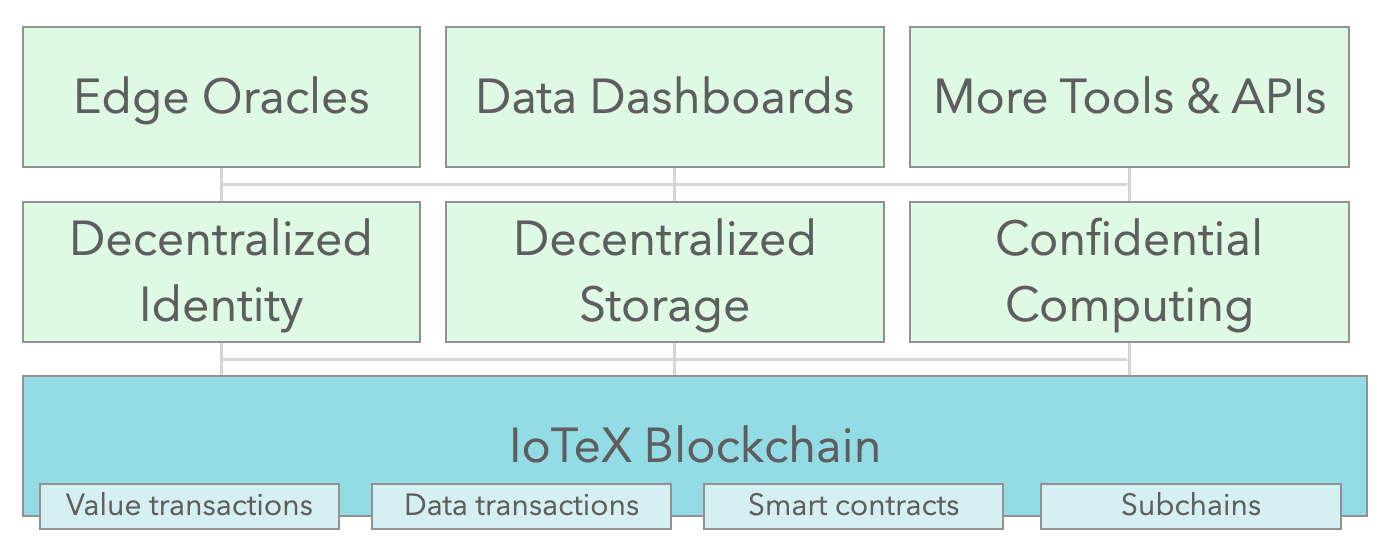
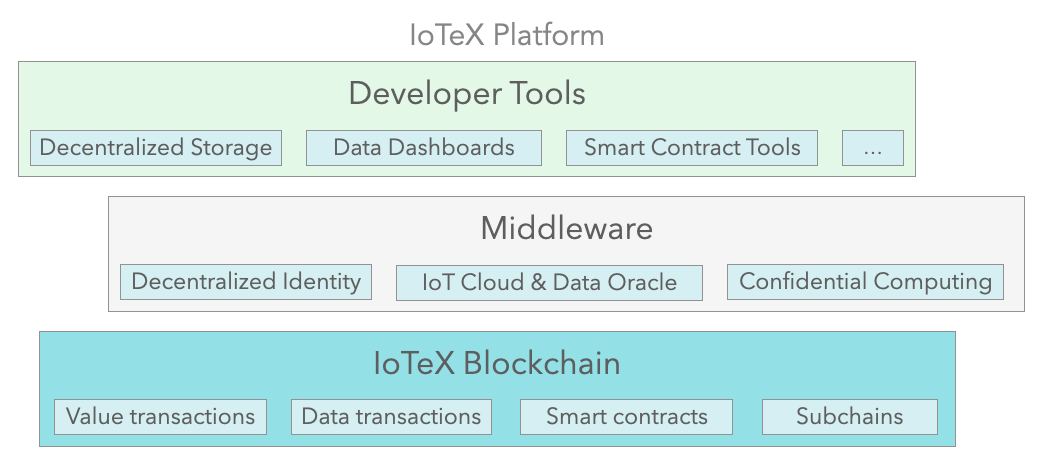
Added some more docs

diff --git a/docs/.vuepress/config.js b/docs/.vuepress/config.js
@@ -35,8 +35,8 @@ module.exports = {
         collapsable: false,
         nav: [
           { text: "Home", link: "/" },
-          { text: "Introduction", link: "/introduction/whatisiotex" },
-          { text: "Develop", link: "/developer/" },
+          { text: "Developers", link: "/developer/" },
+          { text: "Core concepts", link: "/introduction/whatisiotex" },
           { text: "Get Involved", link: "/contribute/" }
         ],
         sidebar: {
@@ -53,9 +53,9 @@ module.exports = {
                   path: "/introduction/platform-overview",
                   children: [
                     "introduction/platform-overview",
-                    "introduction/blockchain",
-                    "introduction/middleware",
-                    "introduction/tools-and-api"
+                    "introduction/blockchain-layer",
+                    "introduction/middleware-layer",
+                    "introduction/tools-layer"
                   ]
                 },
                 {
@@ -65,7 +65,7 @@ module.exports = {
                   children: [
                     "introduction/account-concept",
                     "introduction/node-concept",
-                    "introduction/transaction-concept",
+                    "introduction/action-concept",
                     "introduction/fee-concept"
                   ]
                 }

diff --git a/docs/introduction/account-concept.md b/docs/introduction/account-concept.md
@@ -1,17 +1,17 @@
 ---
 id: guides
-title: IoTeX Accounts
+title: Accounts
 ---
 
-### IoTeX Accounts
+### Accounts
 
-An Account represents any entity participanting in the IoTeX network, that can be a user, a device, an enterprise, or even a piece of software that lives on the blockchain itself (a so called _smart contract_). Each IoTeX account always has a "public key" associated to it, that is represented by a 41 characters string starting by `io1...`, and is referred to as the **Address** of the account.
+An Account represents any entity participanting in the IoTeX network, that can be a user, a device, an enterprise, or even a piece of software that lives on the blockchain itself (a so called _smart contract_). Each IoTeX account always has a "public key" associated with it, that can be represented by a 41 characters string starting by `io1...`, and is referred to as the **Address** of the account.
 
 A typical address in the IoTeX blockchain looks like this:
 
 `io1juvx5g063eu4ts832nukp4vgcwk2gnc5cu9ayd`
 
-Similarly to other blockchain platform, in IoTeX we have two type of accounts: **owned** accounts that have a known **private key** associated to them, and **smart contract accounts** that do not have a known private key associated with them.
+Similarly to other smart contract platforms, in IoTeX we have two type of accounts: **owned** accounts that have a known **private key** associated to them, and **smart contract** accounts that do not have a known private key associated with them.
 
 ![IoTeX Platform](/img/introduction/accounts.png)
 
@@ -23,4 +23,13 @@ While the address of an account can be generated from the private key, it's not 
 
 ### Smart contract Accounts
 
-As anticipated, smart contract accounts do not have a private key associated to it, therefore they cannot initiate transactions: a contract address can only be the destination of transactions. On the other side, a smart contract address has some **executable code** associated to it, that gets executed each time a transaction is sent to its account address.
+As anticipated, smart contract accounts do not have a private key associated to it, therefore they cannot initiate transactions: a contract address can only be the destination of transactions. On the other hand, a smart contract address has some **executable code** associated to it, that gets **executed** each time a transaction is sent to its address.
+
+### Address generation
+
+A IoTeX address can be generated using the following steps:
+
+1. Generating a random private key and the corresponding public key using secp256k1's elliptic curve;
+2. Apply keccak256 hash function to the public key, exluding the first byte ($hash := keccak256(pk[1:])$;
+3. Take the late 20 bytes as the payload (payload := hash[12:]), which is the byte representation of the address;
+4. Apply [bech32](https://github.com/bitcoin/bips/blob/master/bip-0173.mediawiki) encoding on the payload and adding io prefix.

diff --git a/docs/introduction/node-concept.md b/docs/introduction/node-concept.md
@@ -1,6 +1,22 @@
 ---
 id: guides
-title: Blockchain Nodes
+title: Nodes
 ---
 
 ### Blockchain Nodes
+
+Similarly to other blockchains, IoTeX is a peer-to-peer network of **nodes** that maintain a global consensus over the status of a single ledger stored among the nodes of the blockchain in a distributed fashion. IoTeX is also a _digital democracy_, where anyone can configure a node and propose himeself as a **delegate** node. Token-holders can then **stake** their IOTX tokens and **vote** for Delegates to maintain/grow the network. Every 1 hour (aka one _IoTeX Epoch_), the ranking of all delegate candidates is evaluated by the blockchain, and the top 36 voted Delegates become **Consensus Delegates**. Consensus Delegates are eligible to produce blocks on behalf of the entire IoTeX Network for that epoch and to evaluate the new ranking of consensus delegates for the next epoch. For their services, Delegates are **rewarded** by the blockchain in IOTX tokens, which they may share with their voters.
+
+![IoTeX Platform](/img/introduction/nodes.png)
+
+In IoTeX there are three types of nodes:
+
+- **Gateway**: these are nodes that keep a full copy of the blockchain, so that they can securely verify any new incoming transaction against the current status of the ledger. They can serve as the trusted gateway for communication among other users and devices in the IoTeX network, and with the blockchain itself.
+
+- **Delegate Candidates**: these are very similar to a full node, except that the owner of the node configured it such that the node is recognised as a "Delegate Candidate" by other network participants, hence it's entitled to receive **votes** by IOTX token holders. Learn more about IoTeX Delegates [in this thread](https://community.iotex.io/t/official-iotex-delegates-thread/1263), and view the full list of Delegates on the [IoTeX voting website](member.iotex.io).
+
+* **Consensus Delegates** these are themselves delegate nodes, just they have received enough votes from the network to rank in the top 36 of all delegate candidates, hence they are entitled to be the **maintainers** of the blockchain by verifying transactions and minting new blocks. View the current list of consensus delegates on the [IoTeX voting website](member.iotex.io).
+
+![IoTeX Platform](/img/introduction/nodes2.png)
+
+While Delegate nodes can also be configured to act as gateways, this is usually not the case: the main purpose of a delegate node is eventually to become a consensus delegate and to maintain the blockchain, hence the node is usually backed by high-performance hardware, fast network connectivity, and are highly protected against external attacks.

diff --git a/docs/introduction/action-concept.md b/docs/introduction/action-concept.md
@@ -1,0 +1,34 @@
+---
+id: guides
+title: Actions
+---
+
+### IoTeX Actions
+
+Any blockchain is bootstrap from an initial (_genesis_) state, which is then changed over time through transactions, or **Actions** as they are called in IoTeX. An action is fundamentally a _packet of data_, signed by a blockchain account, that instructs the blockchain to make some type of change to the distributed ledger. The action can be sent to any blockchain node acting as a gateway, that in turn broadcasts it to the entire network of nodes for verification and, eventually it get applied and stored forever in the Ledger.
+
+In IoTeX there are different types of Actions, depending on the type of operation that is required to perform:
+
+#### Transfer Action
+
+A transfer is an action initiated by an account, intended to _transfer_ a certain amount of IOTX tokens owned by that account (_sender_) into another account (_recipient_).
+
+#### Execution Action
+
+An execution is an action initiated by an account, intended to run the code associated with a smart contract account
+
+#### Governance Action
+
+Governance actions are low level actions between an account and the blockchain itself, intended to manage the voting mechanism, delegate registrations and rewards.
+
+- **GrantReward** is the action initiated by the blockchain, to grant either block or epoch reward to a delegate
+- **ClaimFromRewardingFund** is the action initiated by an account to claim delegate reward from the granted rewards fund
+- **DepositToRewardingFund** is the action initiated by the blockchain to deposit a delegate reward to the rewarding fund
+- **CandidateRegister** is the action to register a candidate
+- **CandidateUpdate** is the action to update a candidate data
+- **CreateStake** defines the action of stake creation
+- **Restake** defines the action of stake again with different options
+- **DepositToStake** defines the action of stake add deposit
+- **TransferStake** defines the action of transfering stake ownership to another account
+- **Unstake** defines the action of unstake
+- **WithdrawStake** defines the action of stake withdraw

diff --git a/docs/introduction/tools-layer.md b/docs/introduction/tools-layer.md
@@ -1,0 +1,16 @@
+---
+id: guides
+title: Developer Tools Layer
+---
+
+### Developer Tools & APIs Layer
+
+Another major focus for IoTeX in the past months and surely in the future is to make developing on IoTeX intuitive, efficient, and fun for both developers and companies. We have been fortunate to collaborate with IoT standards organizations (e.g., IIC, IEEE), enterprises (e.g., Nordic Semiconductor, Tenvis), and open source technologies (e.g., IPFS, ThingsBoard) to make all of the blockchain infrastructure and middleware accessible and usable by developers of all skill levels. We can’t wait to see what you will build!
+
+![IoTeX Platform](/img/introduction/tools-layer.png)
+
+- **Decentralized Storage**: All of that IoT data … where does it all go? IoTeX offers flexible storage options via Cloud or decentralized storage, where data is “hashed” to the blockchain for verifiability and data provenance. IoTeX enforces protections for data at-rest and in-transit, and we are working closely with the IPFS team on decentralized encrypted storage for Ucam, which can be extended to other “Powered by IoTeX” devices in the future. See IoTeX’s Keynote at the IPFS Summit for more details.
+
+- **IoT Data Dashboards**: integration with ThingsBoard, a powerful open source data visualization tool to create your own IoT dashboards. Expect to see beautiful dashboards for IoTeX devices like Pebble Tracker very soon!
+
+- **Smart Contract Tools**: new and improved IoTeX command-line tool (ioctl) with smart contract deployment capabilities, and planned integrations with smart contract tools like Truffle.

diff --git a/docs/introduction/middleware-layer.md b/docs/introduction/middleware-layer.md
@@ -1,0 +1,16 @@
+---
+id: guides
+title: Middleware Layer
+---
+
+### The Middleware Layer
+
+IoTeX not only excels in blockchain, but also in core middleware components that we have fine-tuned for IoT. What truly differentiates IoTeX from other platforms is our focus on middleware that enables trusted devices and user-owned data:
+
+![IoTeX Platform](/img/introduction/middleware-layer.png)
+
+- **IoT Cloud & Data Oracle**: in-house data oracle to port real world data from registered devices to the blockchain for use in smart contracts with end-to-end trust (whitepaper coming soon).
+
+- **Decentralized Identity (DID)**: IoTeX’s decentralized identity framework enables devices to register an identity to the blockchain — to discover and be discovered — and also own its own data. “Self-sovereignty” for people (e.g., Sovrin, uPort) is common, but extending this concept and granting identities to devices opens the door to new human-machine and machine-machine use cases. Not all DIDs are created equal — IoTeX’s DID spec is advanced for both people and devices and is evolving at an exciting pace.
+
+- **Confidential Computing**: Once we own our data, the final step is to build applications where we can utilize our data while maintaining full privacy. By leveraging secure hardware, IoTeX enables privacy-preserving computations over encrypted data to unlock the future of user-centric applications. “Don’t bring the data to the code, bring the code to the data”.

diff --git a/docs/introduction/blockchain-layer.md b/docs/introduction/blockchain-layer.md
@@ -7,5 +7,8 @@ title: Blockchain Layer
 
 IoTeX has built one of the fastest and most secure blockchains in the entire industry, currently managed by 60+ decentralized Delegates and powered by our in-house **Roll-DPoS consensus mechanism**. The IoTeX blockchain protocol is open-source, built from scratch, and tailor fit to support large-scale **IoT scenarios**.
 
+![IoTeX Platform](/img/introduction/blockchain.png)
+
 Featuring a lightning-fast 5-second block time with instant finality of transactions, customizable subchains, solidity-compliant smartcontracts, and an advanced IoT tokenomics, the blockchain is the root of trust for the entire IoTeX Network. It is a state-of-the-art blockchain, ready for the masses.
-![IoTeX Platform](/img/developer/blockchain.png)
+
+![IoTeX Platform](/img/introduction/blockchain2.png)

diff --git a/docs/introduction/platform-overview.md b/docs/introduction/platform-overview.md
@@ -7,4 +7,4 @@ title: Platform Overview
 
 The IoTeX platform employs a unique, modular architecture to meet the unique requirements of IoT-related use cases. At its core, the IoTeX platform seeks to enable trusted data and trusted devices, meaning developers do not need to replicate this complex work. Instead, developers can focus on building business logic, economics, and industry-specific components to differentiate their applications and services. Let’s walk through how IoTeX enables trusted data and trusted devices, layer-by-layer.
 
-![IoTeX Platform](/img/developer/platform.png)
+![IoTeX Platform](/img/introduction/platform.png)

diff --git a/docs/developer/did.md b/docs/developer/did.md
@@ -1,8 +1,10 @@
 ---
-title: Address Based DID
+title: Decentralized Identity
 ---
 
-Prerequisite: make sure to have ioctl installed.
+iotex DID has been integrated by uniresolver.io -- which is the industrial de facto that resolves DID to the corresponding document
+
+Please make sure to install ioctl on latest master branch of iotex-core repo.
 
 Our address-based DID contract on **IoTeX testnet** is: `io1m3wjevwhz2s58sasq0wj4luxrnqt047s687zw8`
 

diff --git a/docs/introduction/delegate-concept.md b/docs/introduction/delegate-concept.md
@@ -1,0 +1,8 @@
+---
+id: guides
+title: Delegate Nodes
+---
+
+### Delegate Nodes
+
+Learn more about IoTeX Delegates [in this thread](https://community.iotex.io/t/official-iotex-delegates-thread/1263), and view the full list of Delegates on the [IoTeX voting website](member.iotex.io).

diff --git a/docs/introduction/fee-concept copy.md b/docs/introduction/fee-concept copy.md
@@ -1,0 +1,6 @@
+---
+id: guides
+title: Transaction Fees
+---
+
+### Transaction Fees
